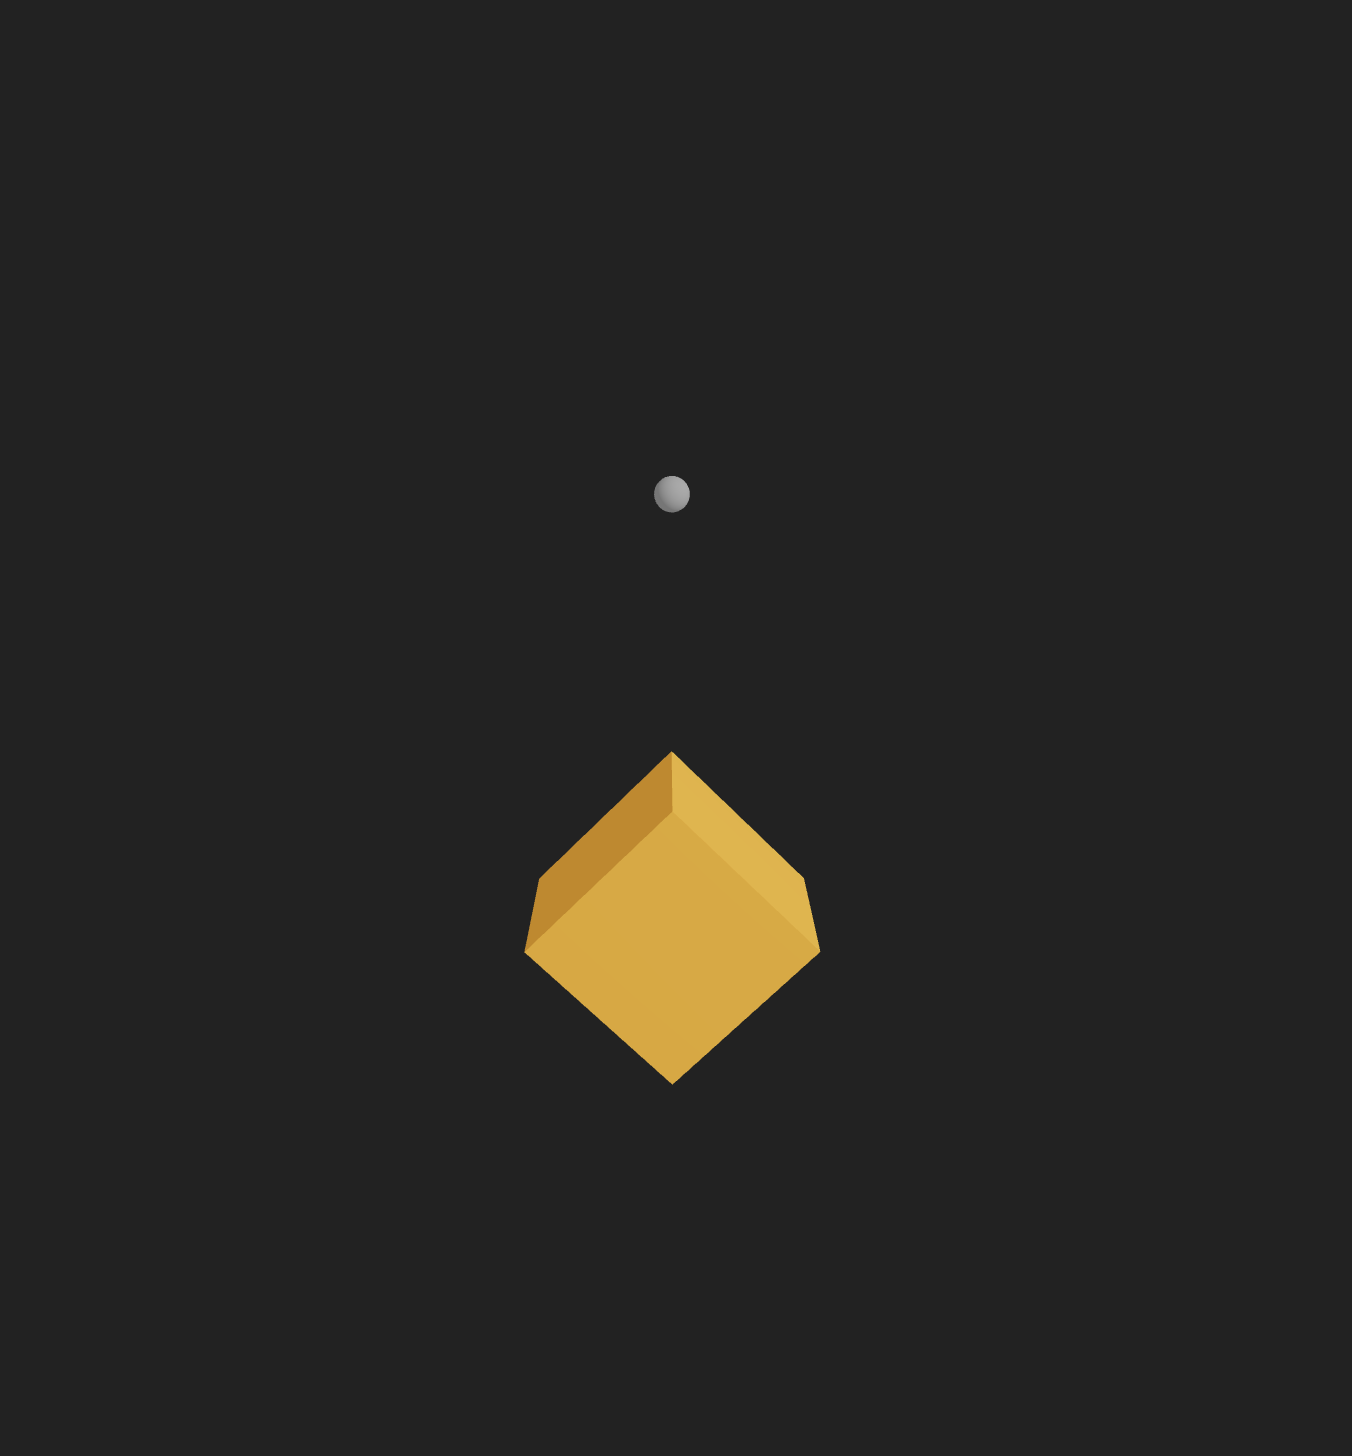
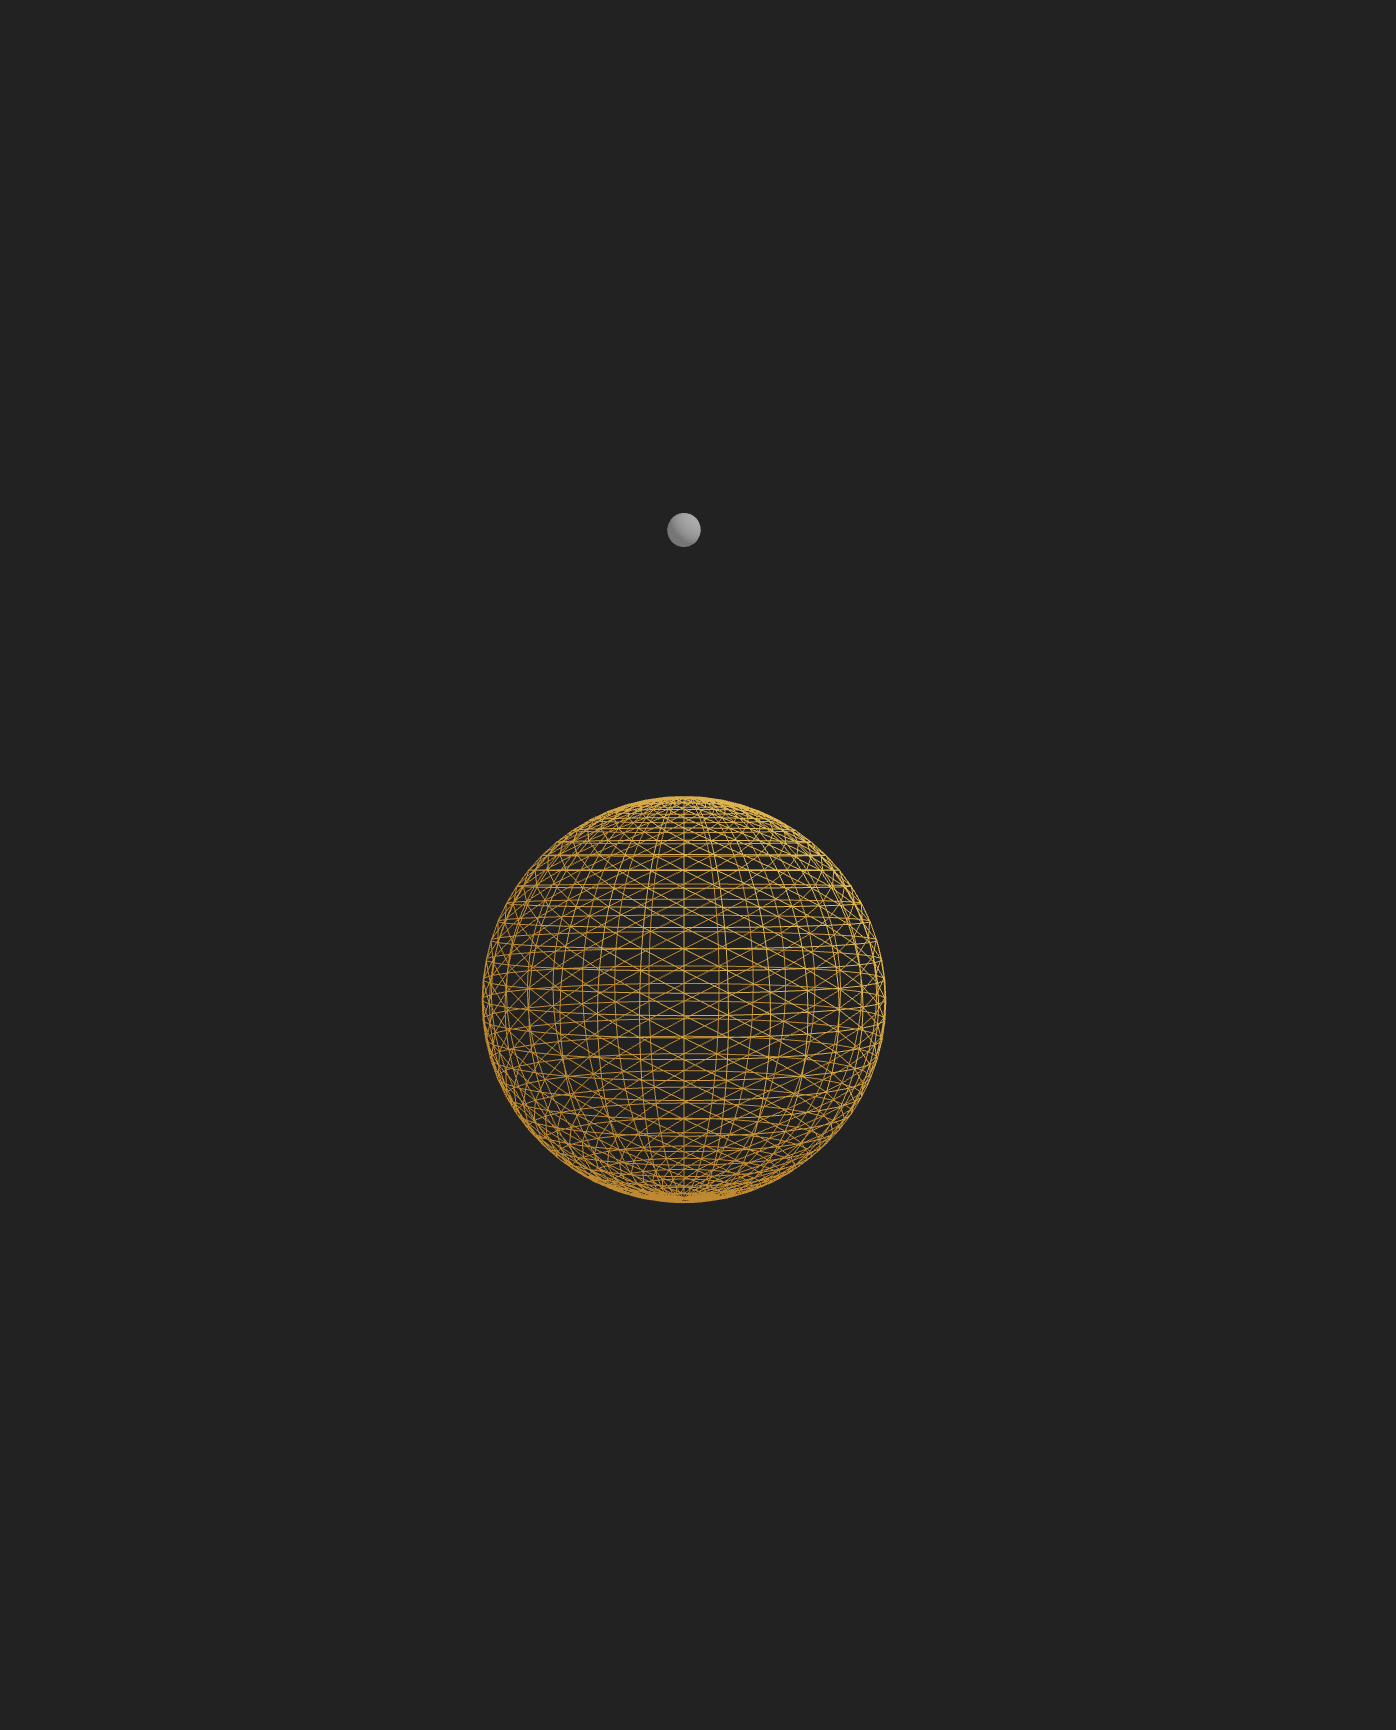
feat: improve rapier spring sketch

Changed region(s): [[0.3417, 0.4327, 0.6524, 0.7418], [0.466, 0.2782, 0.5281, 0.3709]]

diff --git a/src/sketches/sketch-Rapier-Spring/index.tsx b/src/sketches/sketch-Rapier-Spring/index.tsx
@@ -1,10 +1,4 @@
-import { OrbitControls } from '@react-three/drei'
-import {
-    Physics,
-    RapierRigidBody,
-    RigidBody,
-    useBeforePhysicsStep,
-} from '@react-three/rapier'
+import { Physics, RapierRigidBody, RigidBody, useBeforePhysicsStep } from '@react-three/rapier'
 import { useControls } from 'leva'
 import { useEffect, useRef } from 'react'
 import { Vector3 } from 'three'
@@ -14,43 +8,36 @@ import { Spring } from './spring'
 const LEVA_KEY = 'rapier-spring'
 
 const SpringDemo = () => {
-    const { springRestLength, springStiffness, springDamping } = useControls(
-        LEVA_KEY,
-        {
-            postPosition: {
-                value: [0, 2],
-                onChange: (value) => {
-                    postRigidBody.current?.setTranslation(
-                        {
-                            x: value[0],
-                            y: value[1],
-                            z: 0,
-                        },
-                        true
-                    )
-                },
+    const { springRestLength, springStiffness, springDamping } = useControls(LEVA_KEY, {
+        postPosition: {
+            value: [0, 2],
+            onChange: (value) => {
+                postRigidBody.current?.setTranslation(
+                    {
+                        x: value[0],
+                        y: value[1],
+                        z: 0,
+                    },
+                    true
+                )
             },
-            springRestLength: 2,
-            springStiffness: 1,
-            springDamping: 1,
-        }
-    )
+        },
+        springRestLength: 1,
+        springStiffness: 2,
+        springDamping: 1,
+    })
 
     const postRigidBody = useRef<RapierRigidBody>(null!)
     const cubeRigidBody = useRef<RapierRigidBody>(null!)
     const spring = useRef<Spring | null>(null)
 
     useEffect(() => {
-        spring.current = new Spring(
-            cubeRigidBody.current,
-            postRigidBody.current,
-            {
-                restLength: springRestLength,
-                stiffness: springStiffness,
-                damping: springDamping,
-                localAnchorA: new Vector3(-1.2, 1.2, 0),
-            }
-        )
+        spring.current = new Spring(cubeRigidBody.current, postRigidBody.current, {
+            restLength: springRestLength,
+            stiffness: springStiffness,
+            damping: springDamping,
+            localAnchorA: new Vector3(0, 1.2, 0),
+        })
     }, [springRestLength, springStiffness, springDamping])
 
     useBeforePhysicsStep(() => {
@@ -68,14 +55,14 @@ const SpringDemo = () => {
                 </mesh>
             </RigidBody>
 
-            {/* cube rigid body */}
+            {/* ball rigid body */}
             <RigidBody
                 position={[0, 0, 0]}
-                colliders="cuboid"
+                colliders="ball"
                 type="dynamic"
                 ref={cubeRigidBody}
                 mass={5}
-                rotation={[0, 0, -Math.PI / 4]}
+                rotation={[0, 0, 0]}
             >
                 <mesh
                     castShadow
@@ -84,16 +71,16 @@ const SpringDemo = () => {
                         // apply impulse on click
                         cubeRigidBody.current.applyImpulse(
                             {
-                                x: -1,
-                                y: -2.5,
-                                z: -5,
+                                x: Math.random() < 0.5 ? 10 : -10,
+                                y: -200,
+                                z: 0,
                             },
                             true
                         )
                     }}
                 >
-                    <boxGeometry args={[1.2, 1.2, 1.2]} />
-                    <meshStandardMaterial color="orange" />
+                    <sphereGeometry args={[1.2, 32, 32]} />
+                    <meshStandardMaterial color="orange" wireframe />
                 </mesh>
             </RigidBody>
         </>
@@ -106,8 +93,6 @@ const Scene = () => (
 
         <ambientLight intensity={0.5} />
         <pointLight position={[10, 10, 10]} intensity={0.5} />
-
-        <OrbitControls />
     </>
 )
 
@@ -131,6 +116,4 @@ export default () => {
     )
 }
 
-export const meta = {
-    
-}
+export const meta = {}
